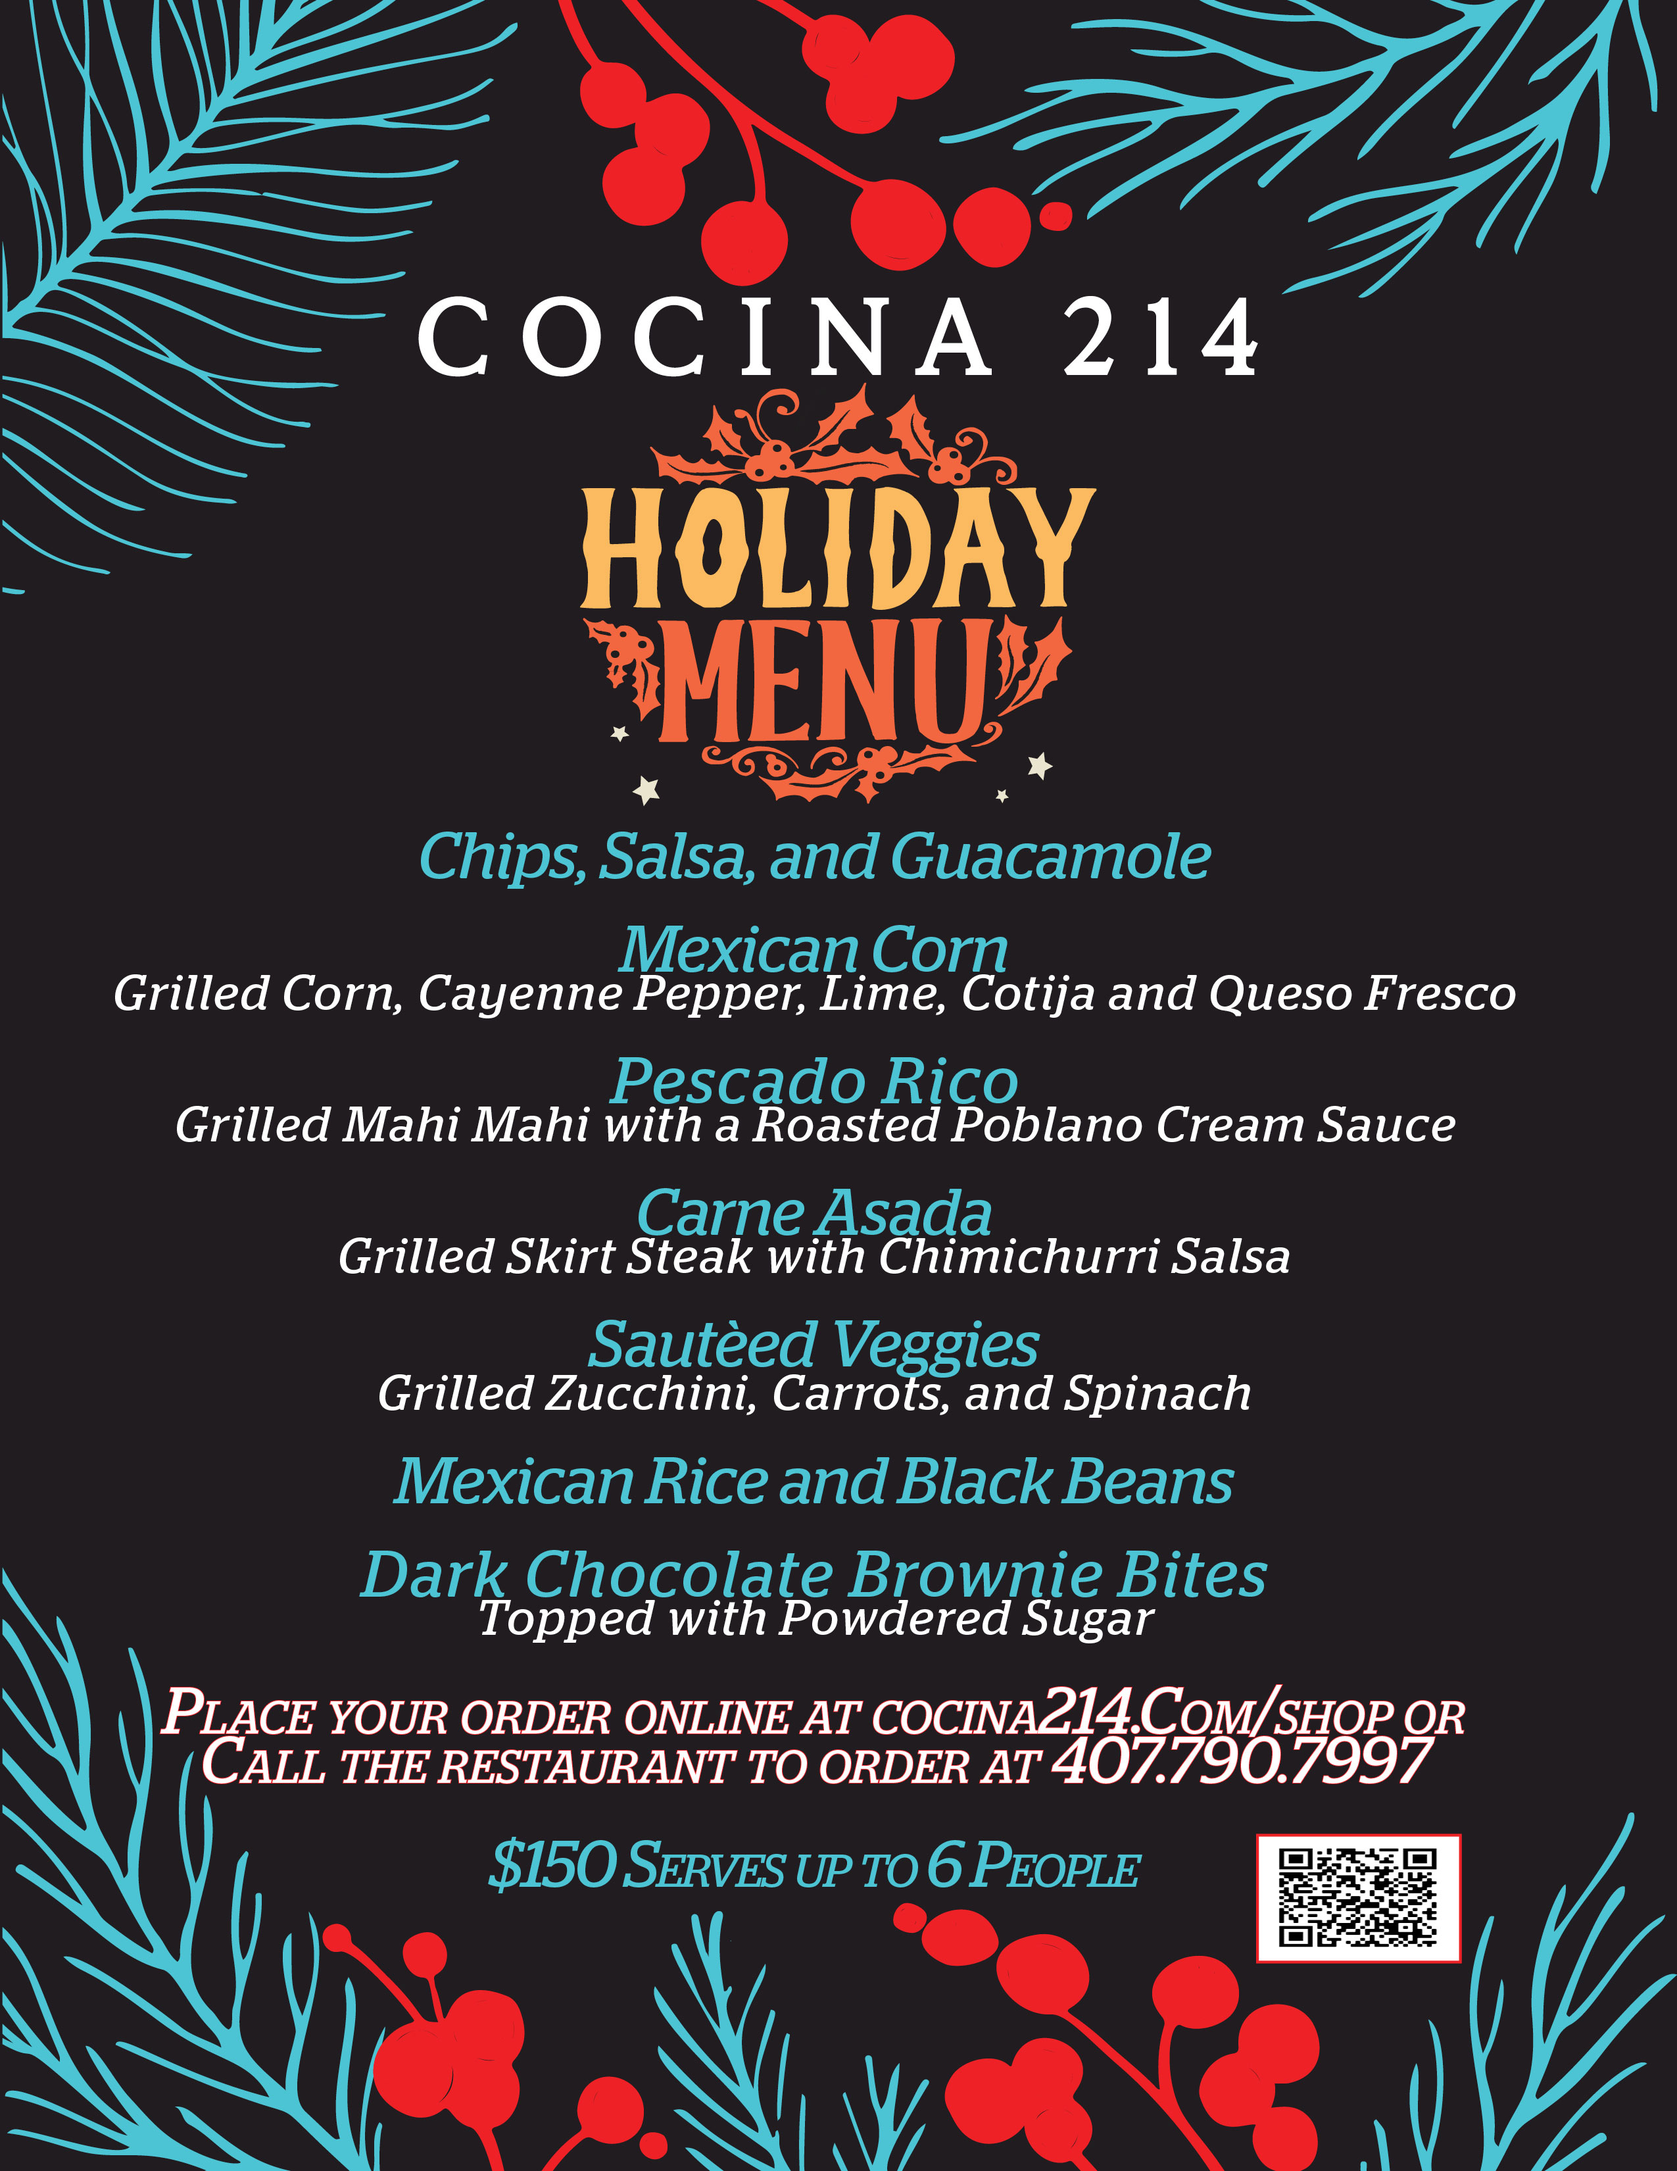
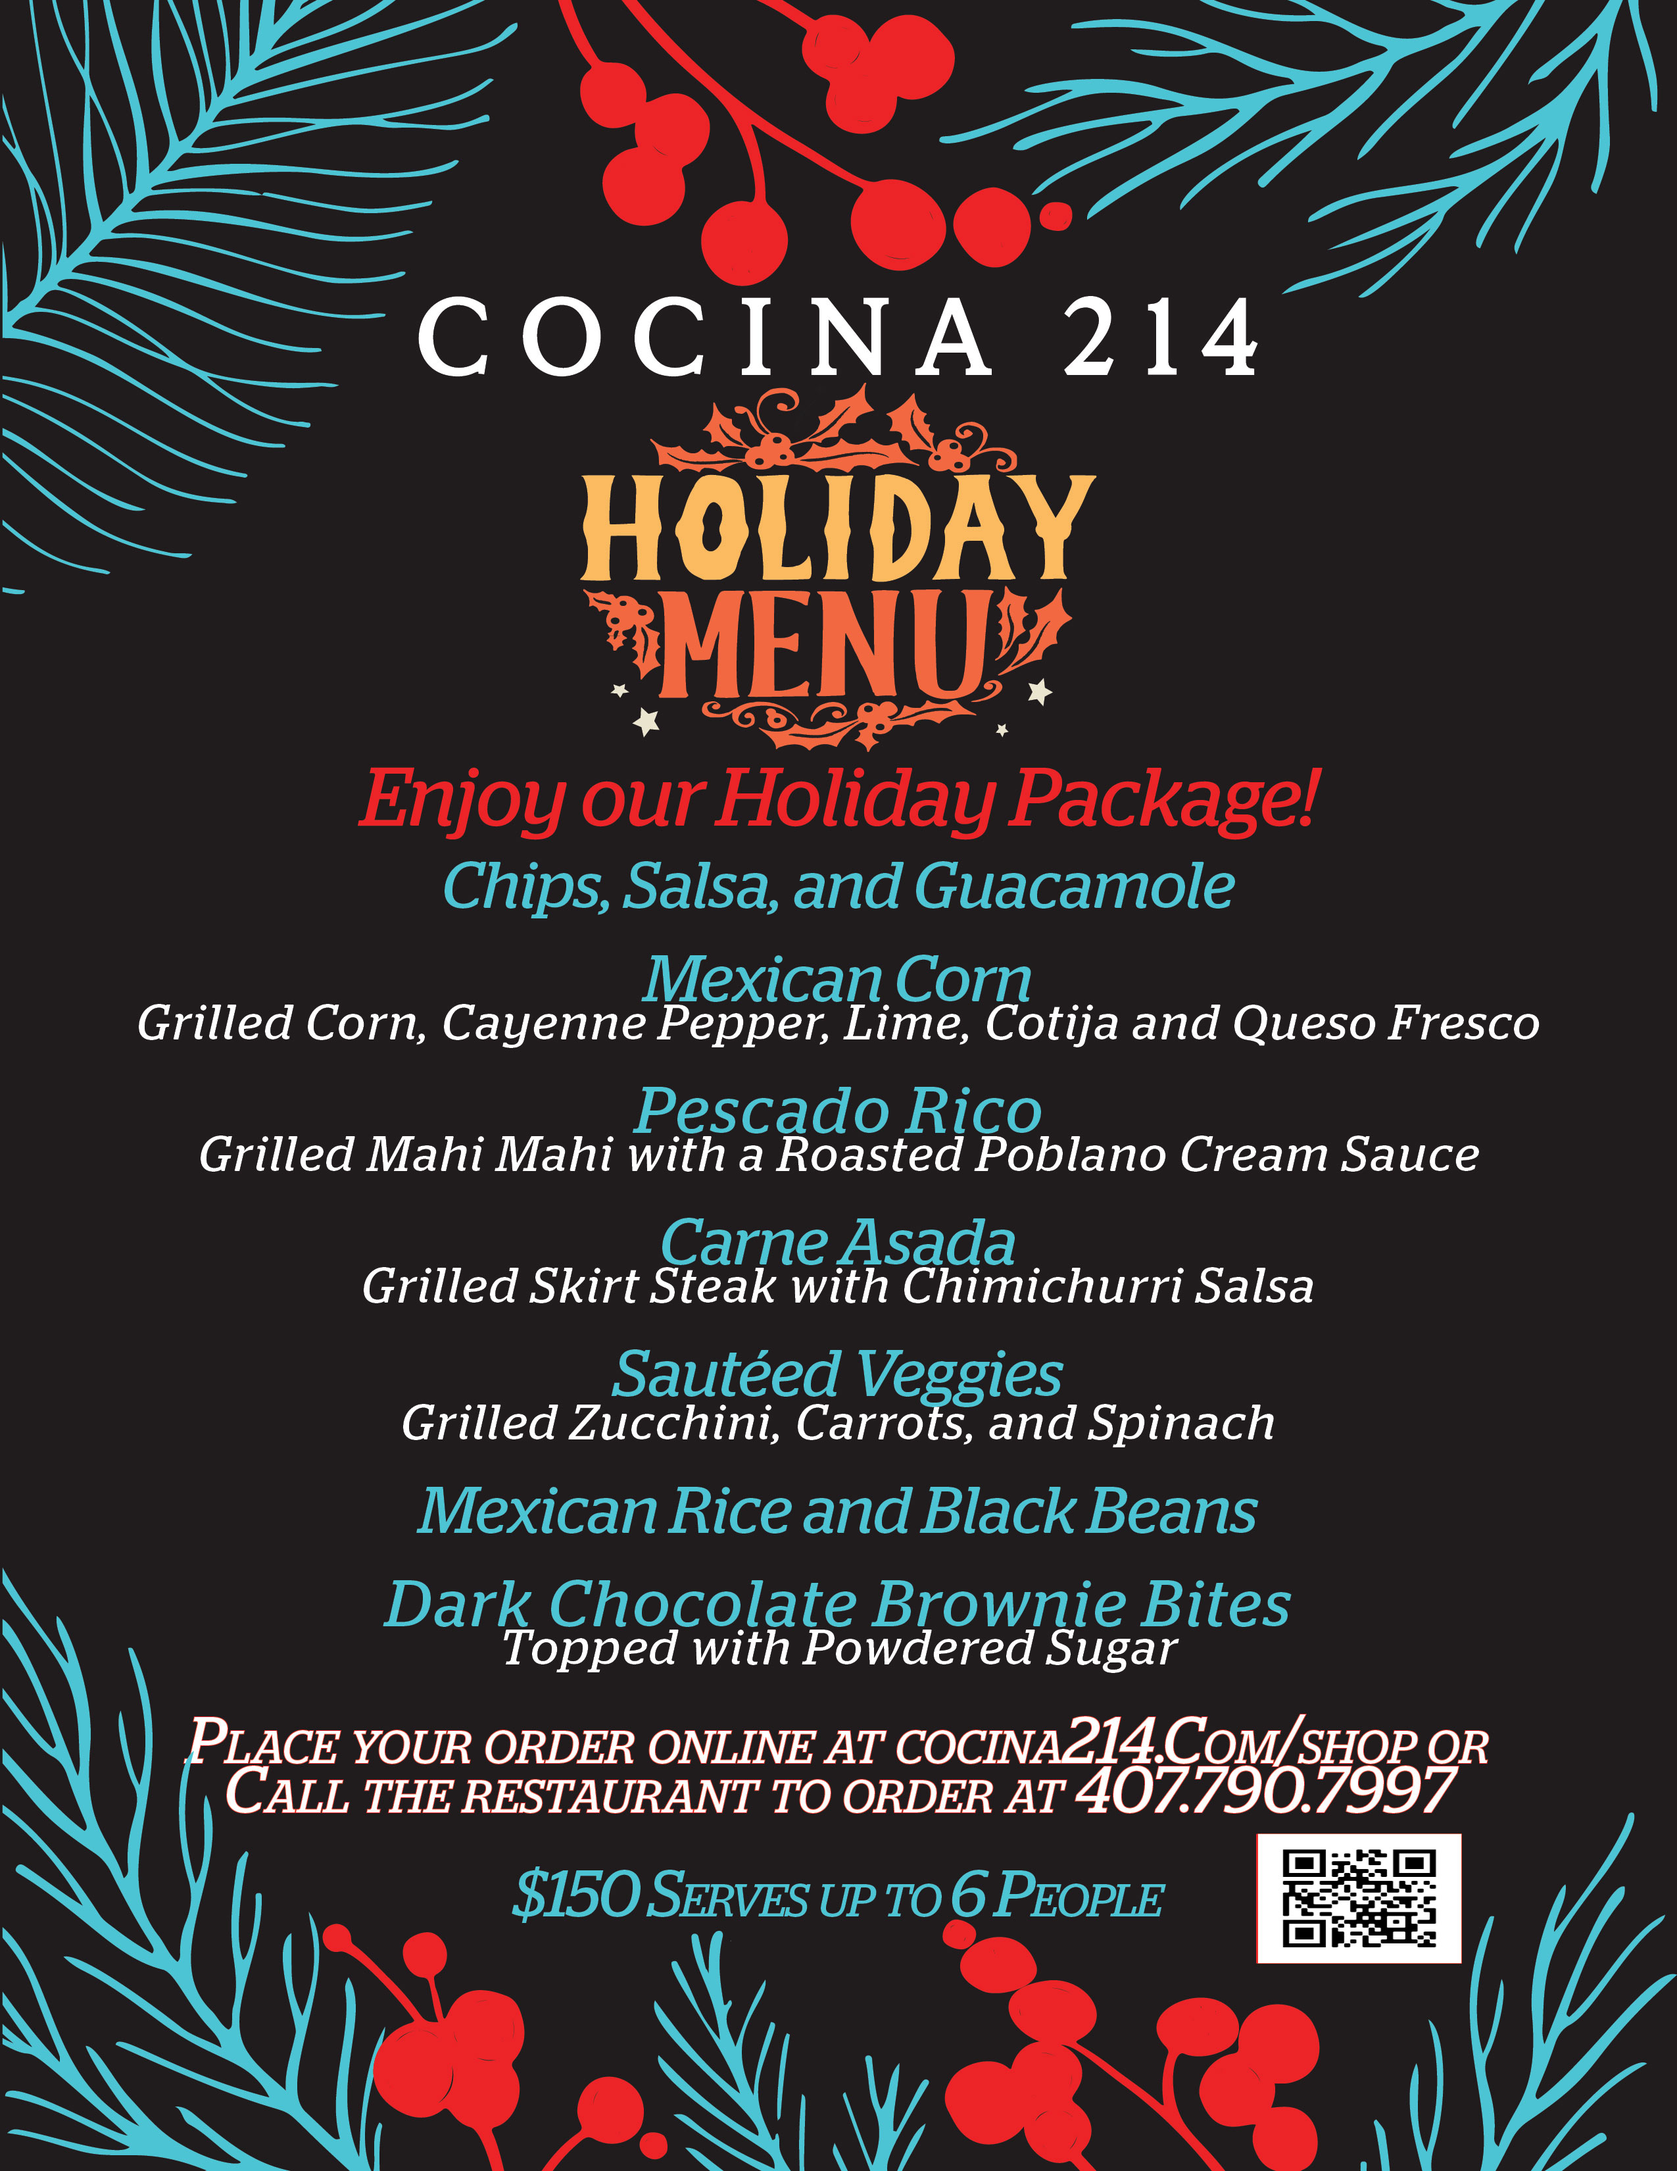
Update from Forestry.io Lambrine Macejewski created static/uploads/2020/11/17/christmas-eve-package-2020.jpg Lambrine Macejewski created content/news/cocina-214-s-holiday-package.md

Changed region(s): [[0.062, 0.1873, 0.8984, 0.9988]]

diff --git a/content/news/cocina-214-s-holiday-package.md b/content/news/cocina-214-s-holiday-package.md
@@ -1,0 +1,40 @@
++++
+additional_info = ""
+category = "current"
+date = 2020-11-17T19:21:39Z
+draft = true
+featured_photo = "/uploads/2020/11/17/christmas-eve-package-2020.jpg"
+photos = []
+title = "Cocina 214's Holiday Package"
+video_key = ""
+
++++
+_Chips, Salsa, and Guacamole_
+
+_Mexican Corn_
+
+_Grilled Corn, Cayenne Pepper, Lime, Cotija and Queso Fresco_
+
+_Pescado Rico_
+
+_Grilled Mahi Mahi with a Roasted Poblano Cream Sauce_
+
+_Carne Asada_
+
+_Grilled Skirt Steak with Chimichurri Salsa_
+
+_Sautèed Veggies_
+
+_Grilled Zucchini, Carrots, and Spinach_
+
+_Mexican Rice and Black Beans_
+
+_Dark Chocolate Brownie Bites_
+
+_Topped with Powdered Sugar_
+
+_Place your order online at cocina214.Com/shop or_
+
+_Call the restaurant to order at 407.790.7997_
+
+_$150 Serves up to 6 People_
